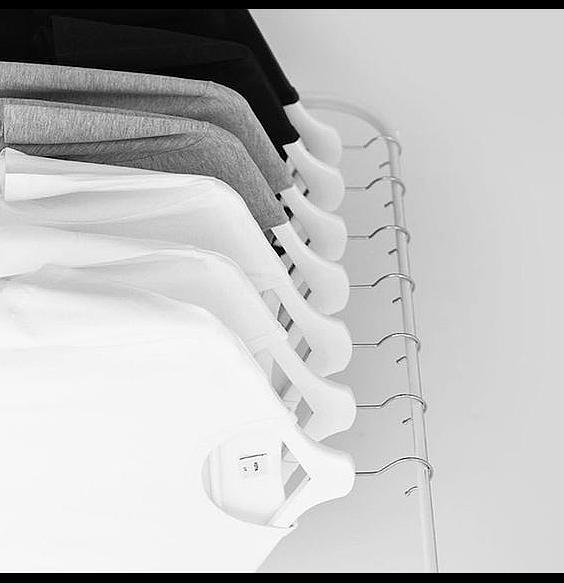
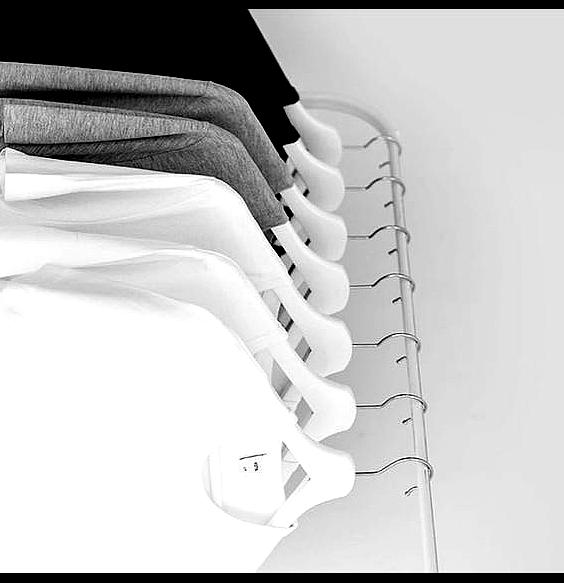
New commits

diff --git a/PhotoEditor.py b/PhotoEditor.py
@@ -38,7 +38,7 @@ for filename in os.listdir(path):
         
         factor = 1.5
         enhancer = ImageEnhance.Contrast(edit)
-        edit = 
+        edit = enhancer.enhance(factor)
 
         # Extract the file name without extension
         clean_name = os.path.splitext(filename)[0]
